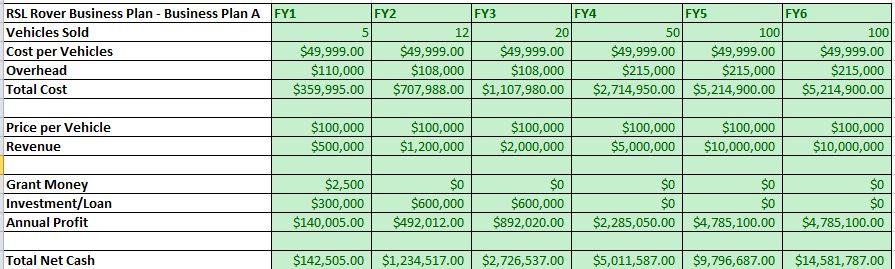
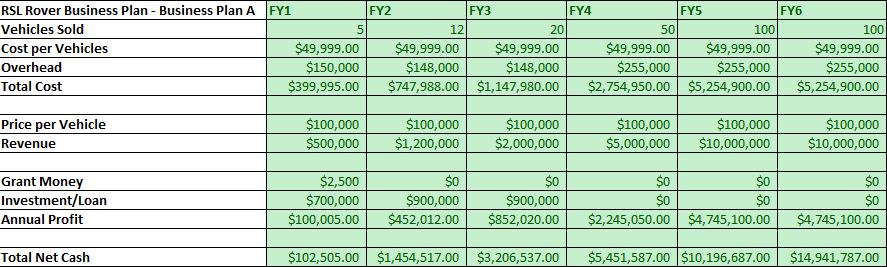
Changed more with Financial Plan

diff --git a/Commercialization_Plan.tex b/Commercialization_Plan.tex
@@ -128,7 +128,7 @@ If our product were to fail, it would be the company's responsibility to diagnos
 
 \section{Financial Plan and ROI}
 
-As was previously mentioned in our Cost and Price section, our vehicles when manufactured should have a cost of around \$49,999, and we feel that due to the capability of our vehicle to protect human lives, the research and development of robotic solutions to the problem, as well as the amount of skilled labor being put into combining the multiple subsystems into a usable and applicable device our price is set at \$100,000. In order to estimate overhead, our team looked for warehouse space to establish as a workshop through LoopNet, a website dedicated to renting commercial real estate. We established a relative average of around \$15 per square foot per year. Thinking that we would need at least 500 square feet for production of 20 or less vehicles in a year, while moving up 1000 square feet for production of 50 or more vehicles. Our plan would be to sell 5 vehicles in our first year to initial buyers, then expanding our market every year based on our profits we acquire. We also had an extra \$2000 in overhead for the first year in case of extra expenses. In order to cover the costs of the first year, we would need an investment of around \$30,000 (or perhaps a loan if we are desperate), followed by continuing to find investors for the future two years. Our goal is then to work up to selling 100 units per year. The Return on investment and Financial plan is shown in the figure below.
+As was previously mentioned in our Cost and Price section, our vehicles when manufactured should have a cost of around \$49,999, and we feel that due to the capability of our vehicle to protect human lives, the research and development of robotic solutions to the problem, as well as the amount of skilled labor being put into combining the multiple subsystems into a usable and applicable device our price is set at \$100,000. In order to estimate overhead, our team looked for warehouse space to establish as a workshop through LoopNet, a website dedicated to renting commercial real estate. We established a relative average of around \$15 per square foot per year. Thinking that we would need at least 1000 square feet for production of 20 or less vehicles in a year, while moving up 2000 square feet for production of 50 or more vehicles. Our plan would be to sell 5 vehicles in our first year to initial buyers, then expanding our market every year based on our profits we acquire. We also are estimating a total of \$120,000 for two hired engineers. In order to cover the costs of the first year, we would need an investment of around \$700,000 (or perhaps a loan if we are desperate), followed by continuing to find investors for the future two years. Our goal is then to work up to selling 100 units per year. The Return on investment and Financial plan is shown in the figure below.
 
 \begin{figure}[h!]
 	\begin{center}
